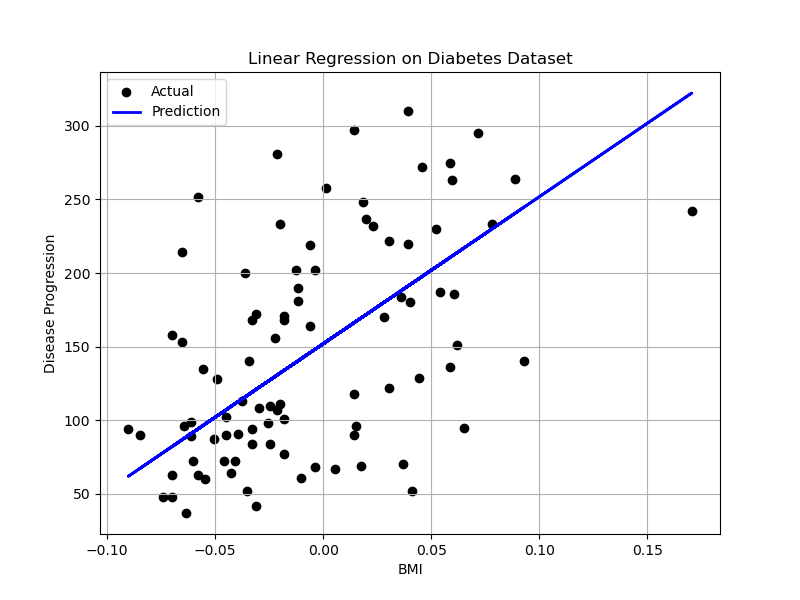
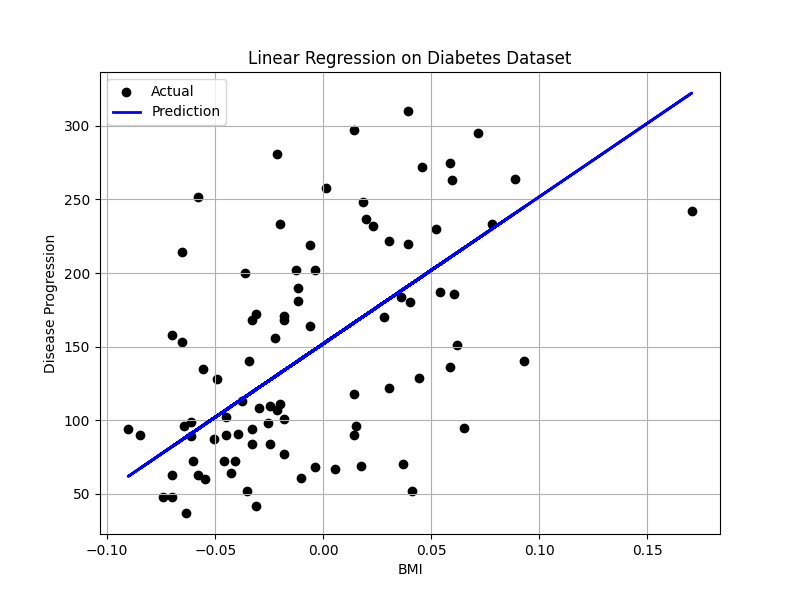
Fixed Flask app

diff --git a/app.py b/app.py
@@ -1,6 +1,7 @@
 from flask import Flask, render_template, abort
 import subprocess
 import os
+import sys
 
 app = Flask(__name__)
 
@@ -9,7 +10,6 @@ app = Flask(__name__)
 # ==========================================================
 
 experiments = [
-
     {"id": 1, "title": "Linear Regression on Diabetes Dataset"},
     {"id": 2, "title": "Logistic Regression Classification"},
     {"id": 3, "title": "Support Vector Machine (SVM) Classification"},
@@ -21,7 +21,6 @@ experiments = [
     {"id": 9, "title": "Hierarchical Clustering"},
     {"id": 10, "title": "Naive Bayes Classification"},
     {"id": 11, "title": "Convolutional Neural Network (CNN)"}
-
 ]
 
 # ==========================================================
@@ -30,51 +29,33 @@ experiments = [
 
 graph_files = {
 
-    1: {
-        "graph": "graphs/regression.png"
-    },
+    1: {"graph": "graphs/regression.png"},
 
-    2: {
-        "graph": "graphs/logistic.png"
-    },
+    2: {"graph": "graphs/logistic.png"},
 
-    3: {
-        "graph": "graphs/svm.png"
-    },
+    3: {"graph": "graphs/svm.png"},
 
-    4: {
-        "graph": "graphs/knn.png"
-    },
+    4: {"graph": "graphs/knn.png"},
 
     5: {
         "graph1": "graphs/iris_confusion_matrix.png",
         "graph2": "graphs/iris_decision_tree.png"
     },
 
-    6: {
-        "graph": "graphs/kmeans.png"
-    },
+    6: {"graph": "graphs/kmeans.png"},
 
     7: {
         "graph1": "graphs/random_forest.png",
         "graph2": "graphs/random_forest_features.png"
     },
 
-    8: {
-        "graph": "graphs/adaboost.png"
-    },
+    8: {"graph": "graphs/adaboost.png"},
 
-    9: {
-        "graph": "graphs/hierarchical.png"
-    },
+    9: {"graph": "graphs/hierarchical.png"},
 
-    10: {
-        "graph": "graphs/naive_bayes.png"
-    },
+    10: {"graph": "graphs/naive_bayes.png"},
 
-    11: {
-        "graph": "graphs/cnn_accuracy.png"
-    }
+    11: {"graph": "graphs/cnn_accuracy.png"}
 
 }
 
@@ -92,19 +73,16 @@ os.makedirs("static/graphs", exist_ok=True)
 def welcome():
     return render_template("welcome.html")
 
-
 # ==========================================================
 # Dashboard
 # ==========================================================
 
 @app.route("/home")
 def home():
-
     return render_template(
         "index.html",
         experiments=experiments
     )
-
 
 # ==========================================================
 # Open Experiment
@@ -119,23 +97,14 @@ def experiment(id):
     graphs = graph_files.get(id, {})
 
     return render_template(
-
         f"exp{id}.html",
-
-        experiment=experiments[id-1],
-
+        experiment=experiments[id - 1],
         output=None,
-
         graph=graphs.get("graph"),
-
         graph1=graphs.get("graph1"),
-
         graph2=graphs.get("graph2"),
-
         graph3=graphs.get("graph3")
-
     )
-
 
 # ==========================================================
 # Run Experiment
@@ -159,57 +128,38 @@ def run_experiment(id):
         try:
 
             result = subprocess.run(
-
-                ["python", script],
-
+                [sys.executable, script],
                 capture_output=True,
-
                 text=True,
-
                 timeout=120
-
             )
 
             output = result.stdout
 
             if result.stderr:
-
                 output += "\n\nERROR:\n"
-
                 output += result.stderr
 
         except subprocess.TimeoutExpired:
-
             output = "Experiment execution timed out."
 
         except Exception as e:
-
             output = str(e)
 
     else:
-
         output = f"{script} not found."
 
     graphs = graph_files.get(id, {})
 
     return render_template(
-
         f"exp{id}.html",
-
-        experiment=experiments[id-1],
-
+        experiment=experiments[id - 1],
         output=output,
-
         graph=graphs.get("graph"),
-
         graph1=graphs.get("graph1"),
-
         graph2=graphs.get("graph2"),
-
         graph3=graphs.get("graph3")
-
     )
-
 
 # ==========================================================
 # Error Page
@@ -217,16 +167,11 @@ def run_experiment(id):
 
 @app.errorhandler(404)
 def page_not_found(error):
-
     return "<h2>404 - Page Not Found</h2>", 404
-
 
 # ==========================================================
 # Run Flask
 # ==========================================================
 
 if __name__ == "__main__":
-
-    app.run(
-        debug=True
-    )
+    app.run(debug=True)